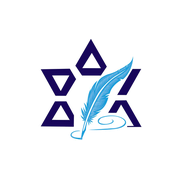
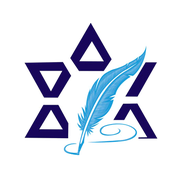
Иконки: плитка меньше на заставке, крупная эмблема на главном экране
- any (заставка Android): прозрачный холст, белая скруглённая плитка 72%,
  эмблема 62% плитки (229px в icon-512, без растяжения) — по просьбе владельца
  уменьшается вся плитка, а не эмблема внутри неё.
- maskable (иконка на главном экране): отдельные icon-maskable-192/512,
  эмблема 76% — крупнее и читаемее; apple-icon тоже 76%.
- Пуш: большая иконка уведомления — icon-maskable-192 (белый фон без полей).

Claude-Session: https://claude.ai/code/session_01HXEVcxAZiDpPAuFaHJUZdN

Changed region(s): [[0.1389, 0.1111, 0.8889, 0.8611]]

diff --git a/app/manifest.ts b/app/manifest.ts
@@ -4,8 +4,9 @@ import type { MetadataRoute } from 'next'
  * PWA-манифест: даёт «Установить приложение» / «Добавить на главный экран» на
  * телефоне — система открывается в отдельном окне без адресной строки, со своей
  * иконкой. Иконки сгенерированы из эмблемы public/logo.png (вырезана из лого1.pdf)
- * на белом фоне с безопасными полями
- * (одни файлы годятся и как maskable для круглой маски Android).
+ * на белом фоне. any (заставка) — эмблема 50% холста, в натуральном размере;
+ * maskable (иконка на главном экране Android) — эмблема 76%, крупнее, но ещё
+ * внутри безопасной зоны круглой маски.
  */
 export default function manifest(): MetadataRoute.Manifest {
   return {
@@ -21,8 +22,8 @@ export default function manifest(): MetadataRoute.Manifest {
     icons: [
       { src: '/icons/icon-192.png', sizes: '192x192', type: 'image/png', purpose: 'any' },
       { src: '/icons/icon-512.png', sizes: '512x512', type: 'image/png', purpose: 'any' },
-      { src: '/icons/icon-192.png', sizes: '192x192', type: 'image/png', purpose: 'maskable' },
-      { src: '/icons/icon-512.png', sizes: '512x512', type: 'image/png', purpose: 'maskable' },
+      { src: '/icons/icon-maskable-192.png', sizes: '192x192', type: 'image/png', purpose: 'maskable' },
+      { src: '/icons/icon-maskable-512.png', sizes: '512x512', type: 'image/png', purpose: 'maskable' },
     ],
   }
 }

diff --git a/public/sw.js b/public/sw.js
@@ -13,7 +13,7 @@ self.addEventListener('push', event => {
   event.waitUntil(
     self.registration.showNotification(data.title, {
       body: data.body || undefined,
-      icon: '/icons/icon-192.png',
+      icon: '/icons/icon-maskable-192.png',
       // Значок в строке состояния Android рисуется только по прозрачности:
       // нужен силуэт эмблемы на прозрачном фоне, иначе виден белый квадрат.
       badge: '/icons/badge-96.png',
